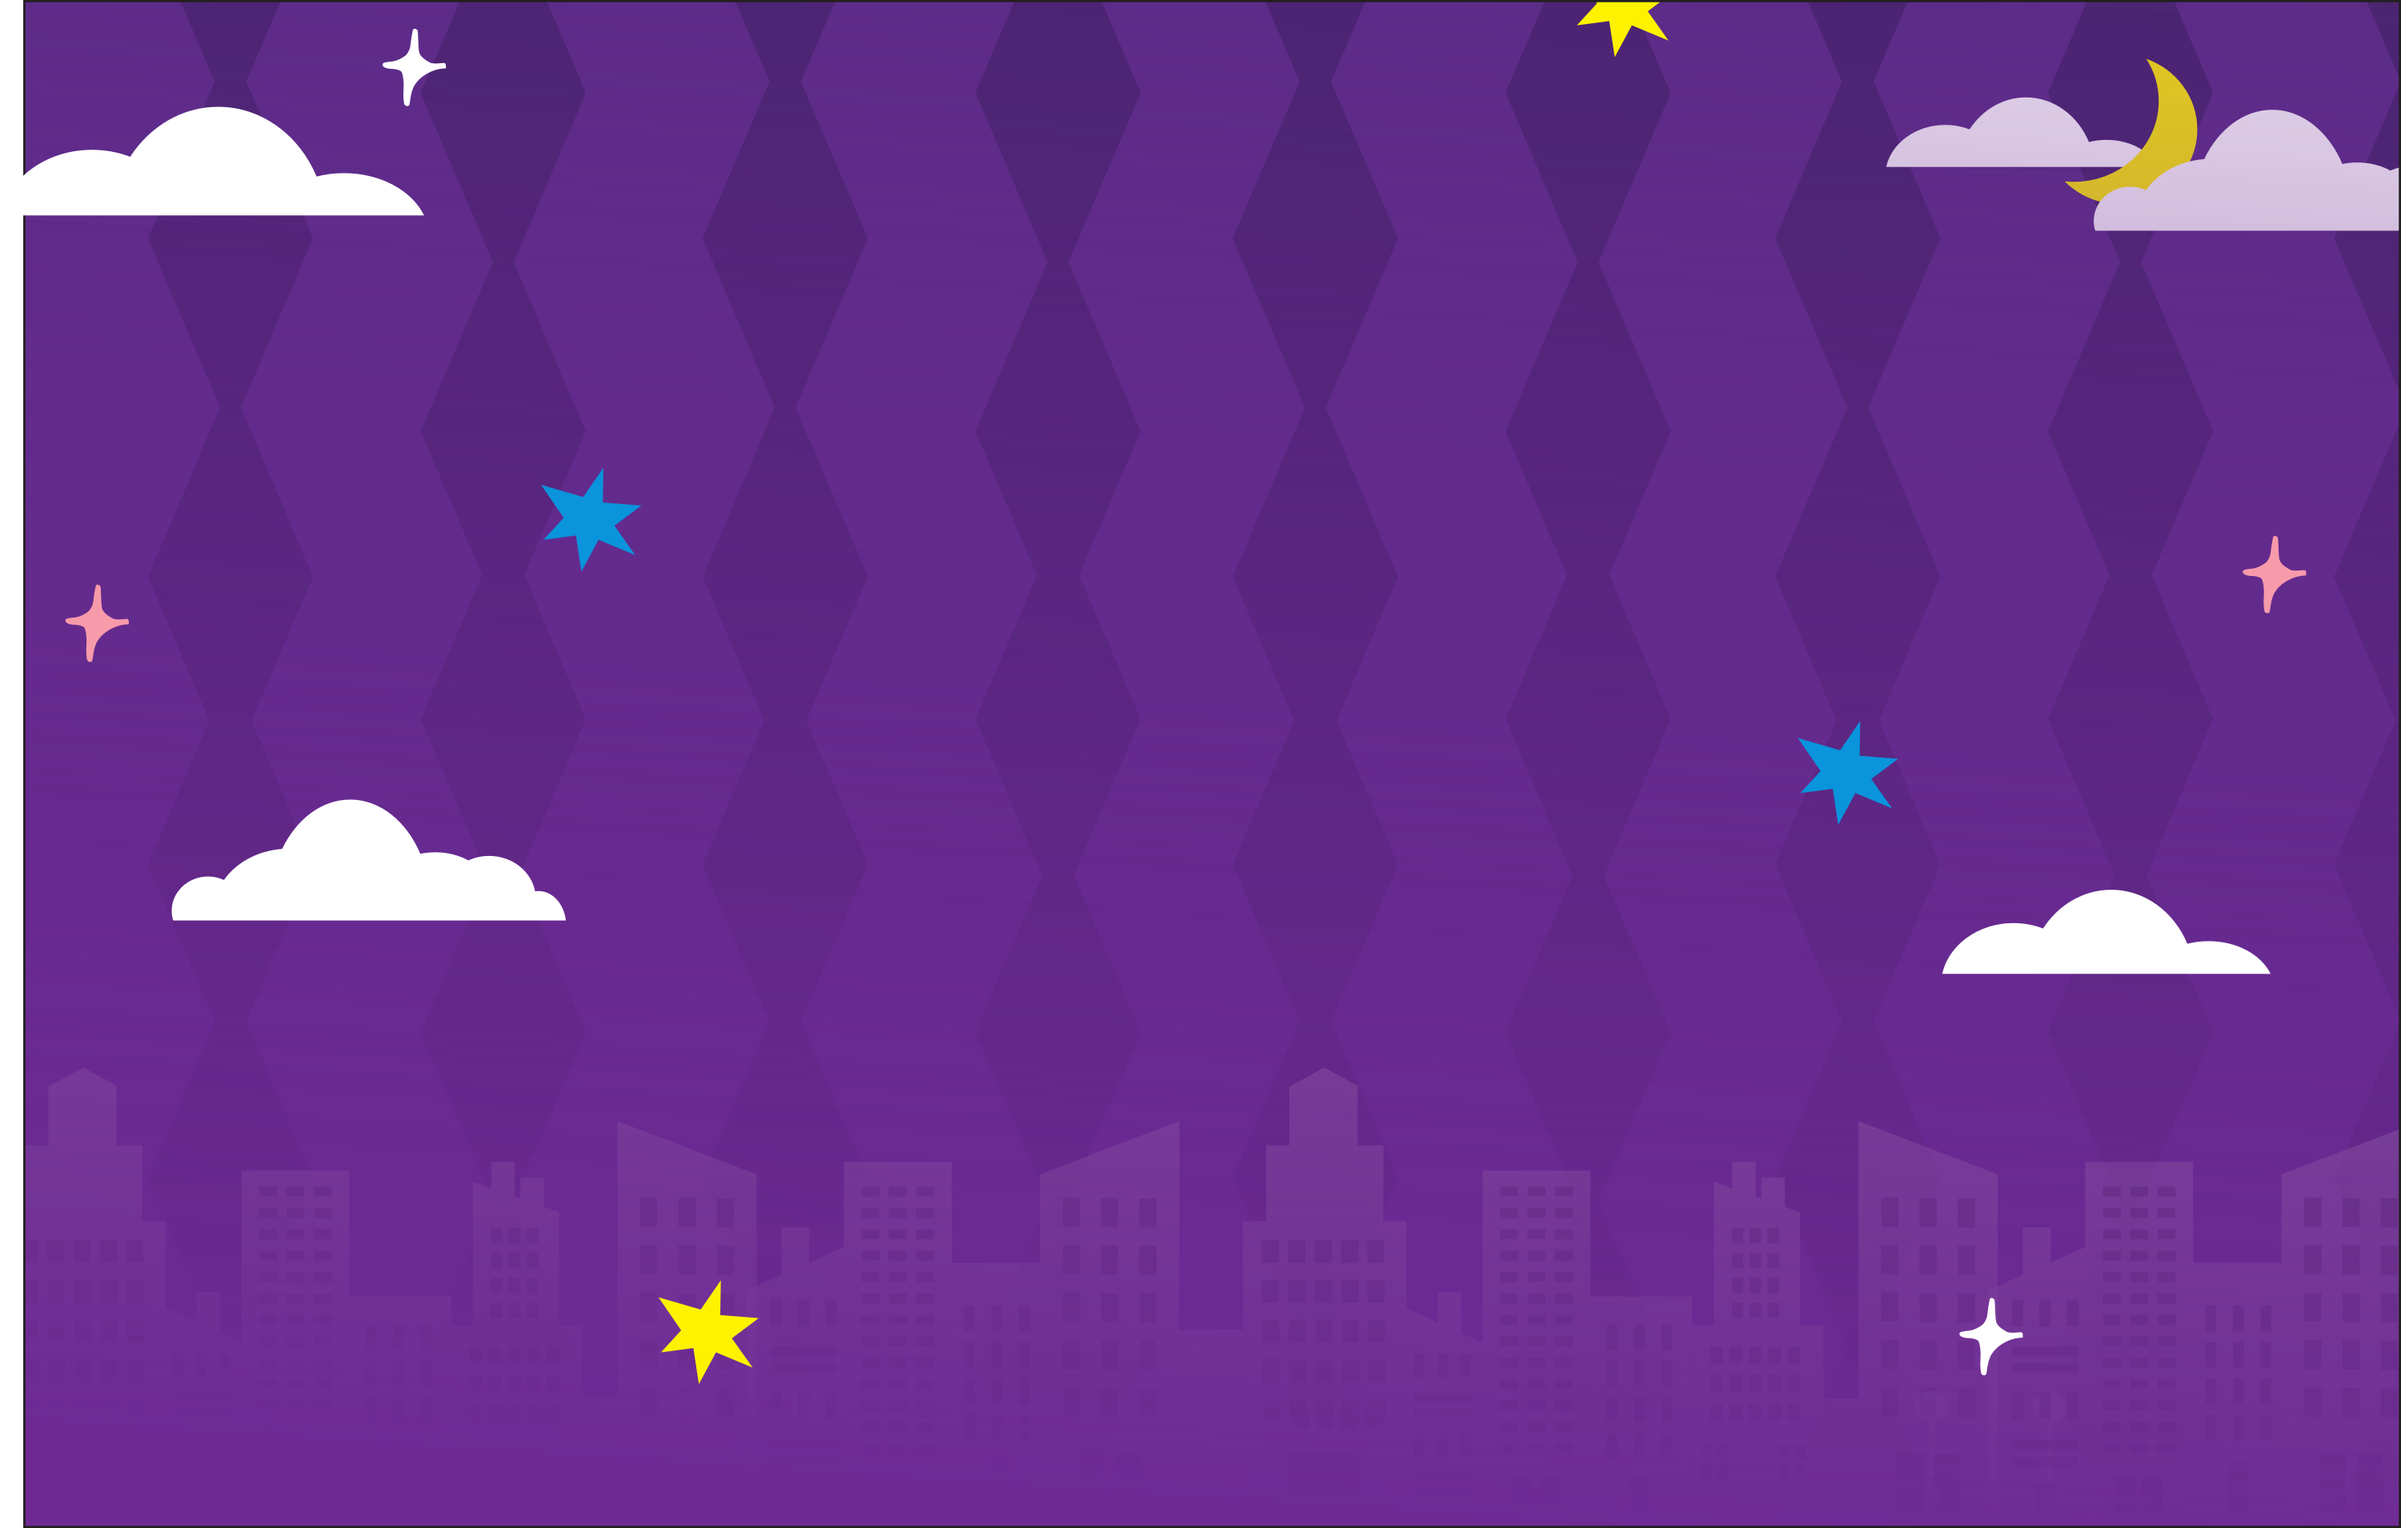
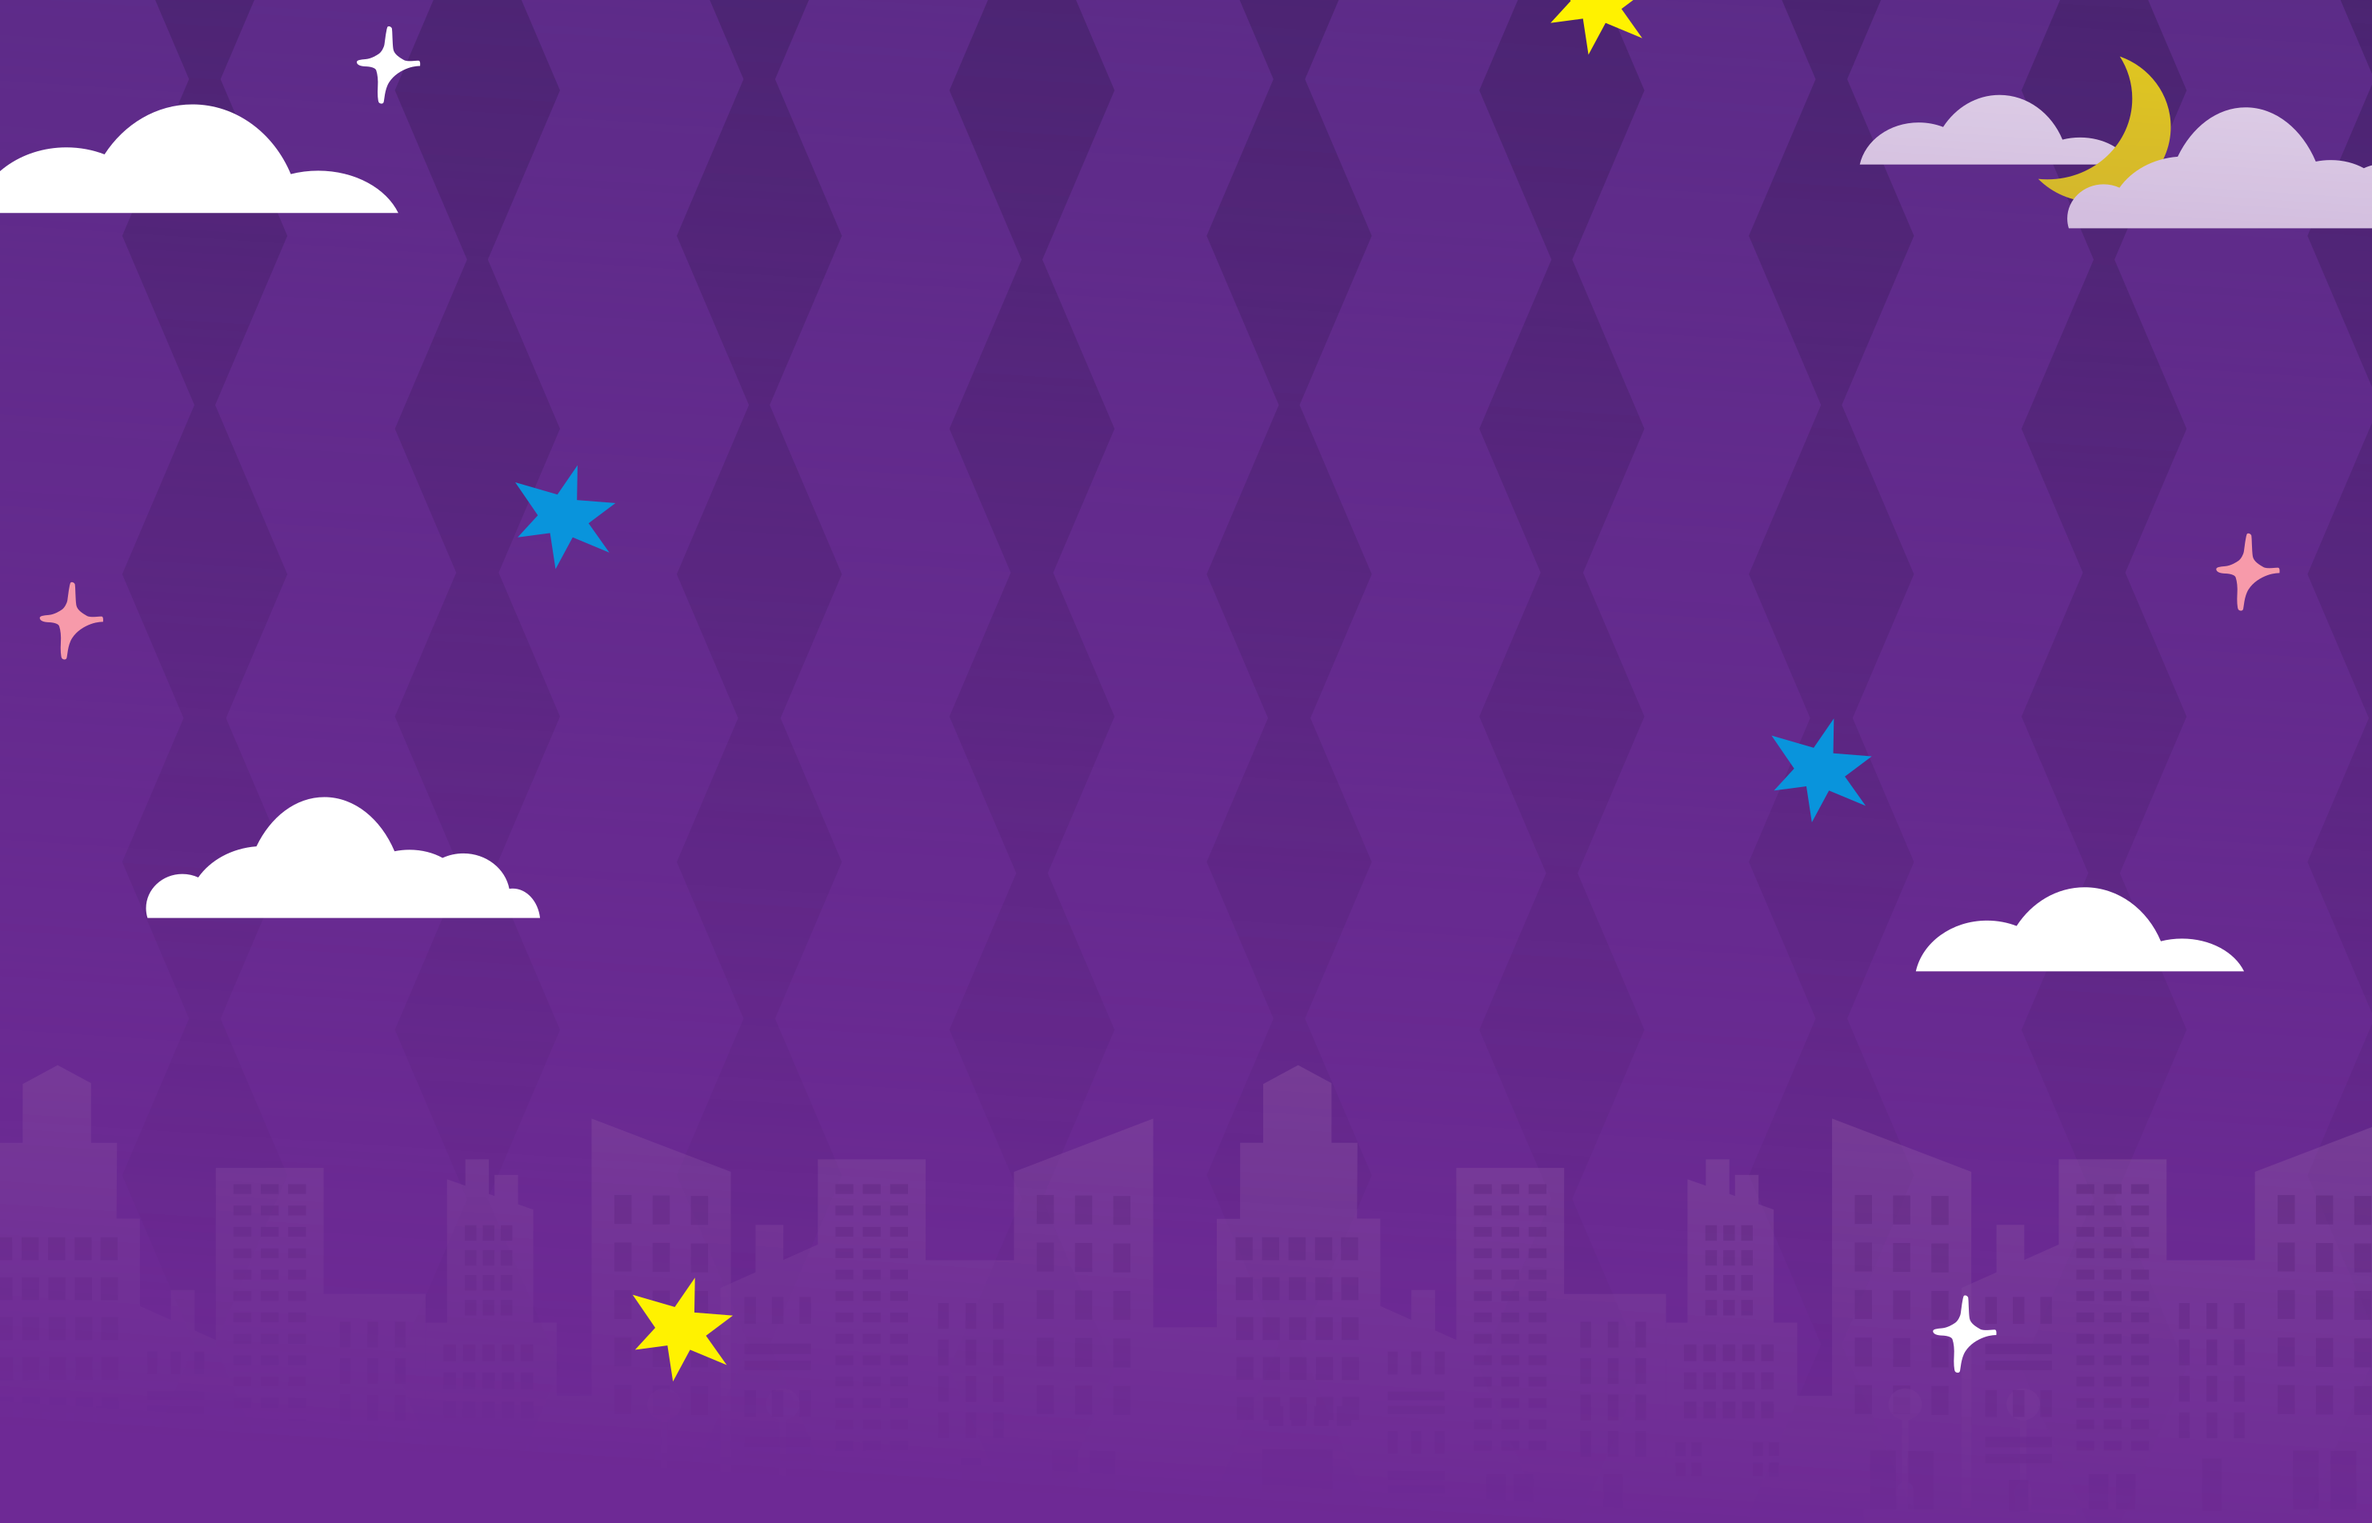
Corrige faixa branca do fundo Não é Não (recorta borda transparente + cor de fundo roxa)
O PNG do fundo tinha ~29px transparentes na esquerda (apareciam brancos) e uma
moldura escura de ~2px. Recortado pro roxo cheio (edge-to-edge) e achatado em
#5e2d8a; bgGradient ganha cor roxa de segurança atrás da imagem.

diff --git a/game.js b/game.js
@@ -458,7 +458,7 @@ const THEMES = {
         icon: 'fa-hand',
         primaryColor: '#f4c81e',
         secondaryColor: '#5e2d8a',
-        bgGradient: "url('assets/naoenao-fundo.png') center center / cover no-repeat",
+        bgGradient: "#5e2d8a url('assets/naoenao-fundo.png') center center / cover no-repeat",
         decorations: 'naoenao',
         logo: 'assets/naoenao-logo.png'
     }
